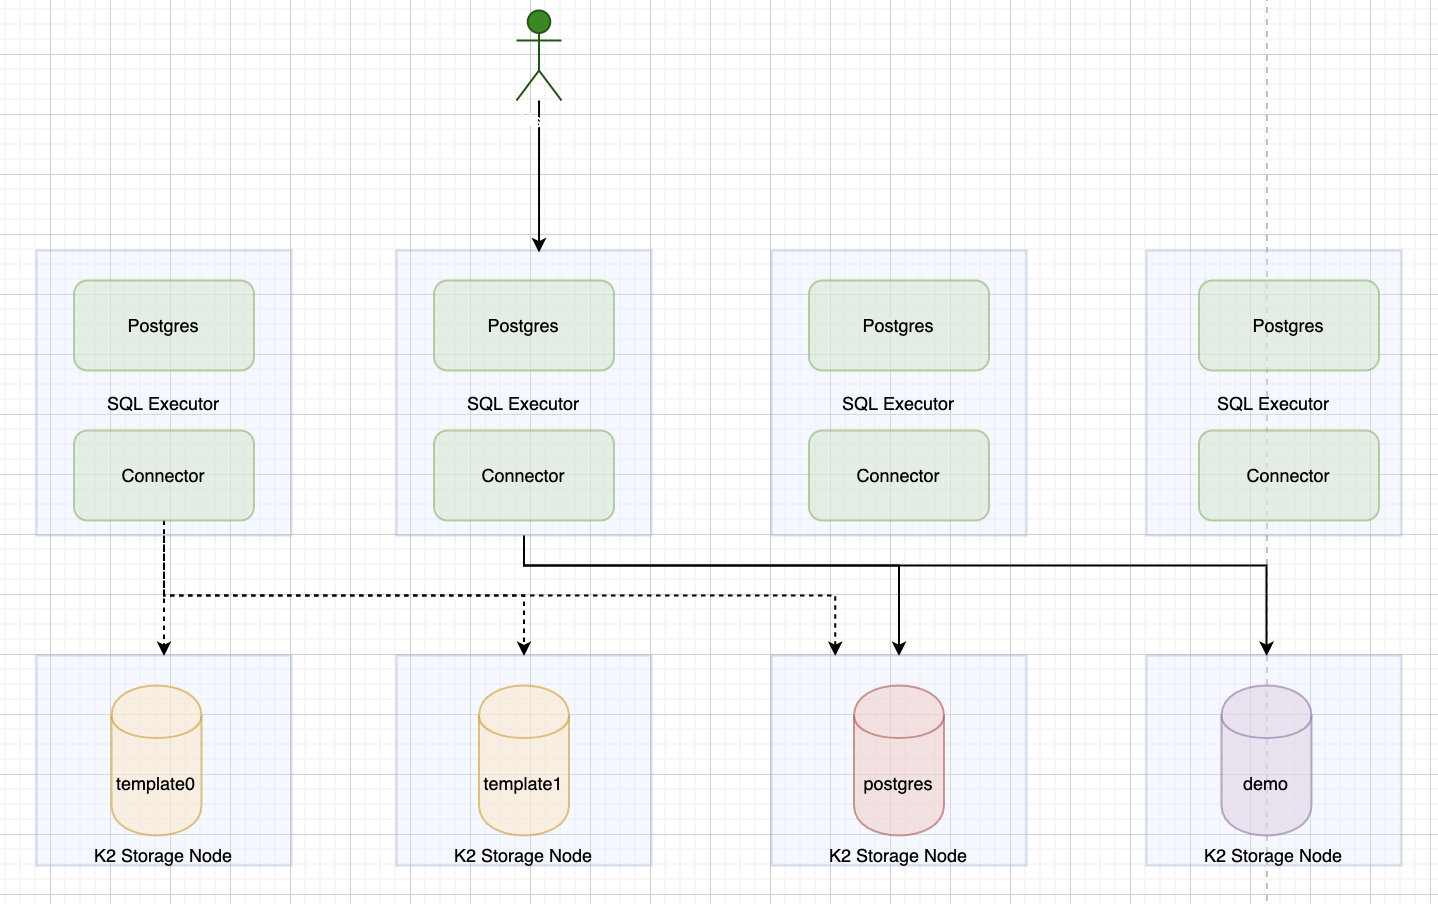
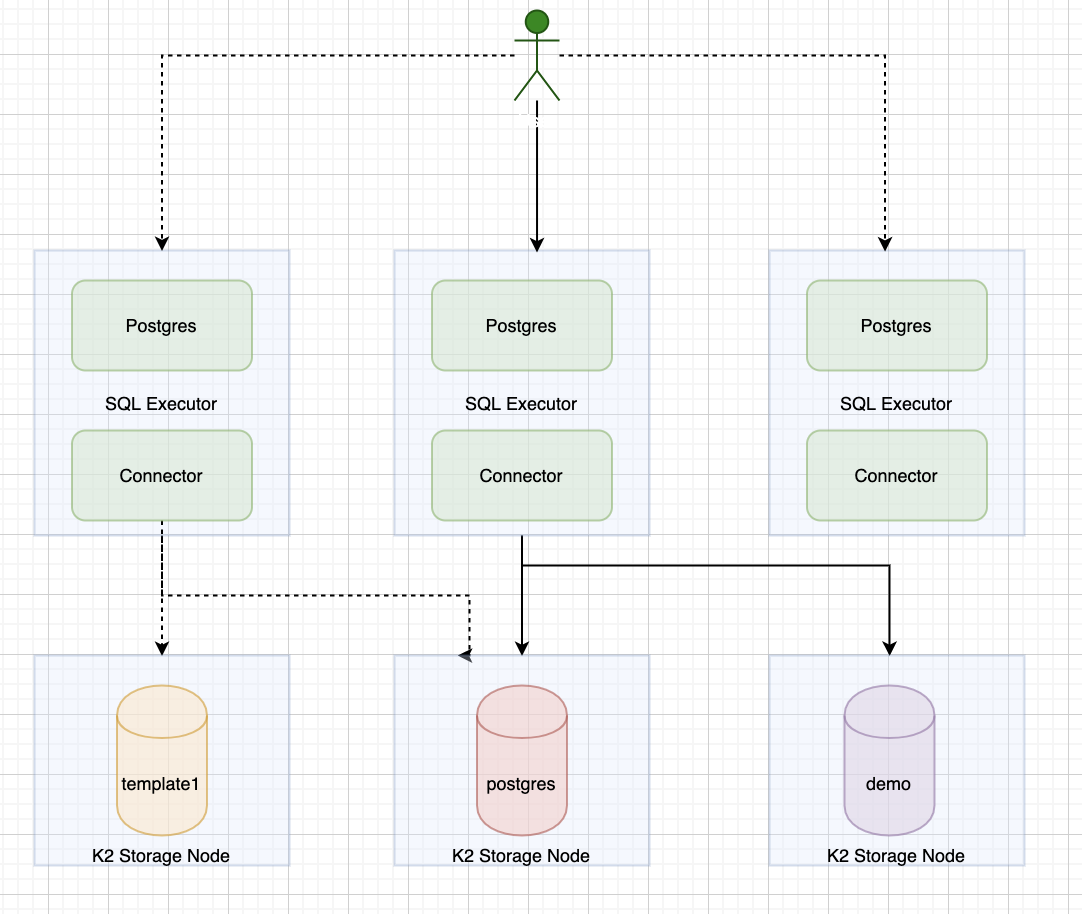
remove template0 database from the system

diff --git a/docs/K2SqlDesignProposalV1.md b/docs/K2SqlDesignProposalV1.md
@@ -14,7 +14,8 @@ into multiple segments to run on different nodes, which is useful for HTAP (Hybr
 * Data persistency and consistency is guaranteed by the K2 storage layer
 * Each table has a primary key and we need to specify one if it is not provided in schema definition. 
 * Primary keys that are used to partition tables cannot be changed once they are defined. 
-* *DDL schema updates are transactional, but schema migrations are not transactional*.
+* *DDL schema updates are transactional, but schema migrations are not*.
+* We don't support [creating a database from a template database](https://www.postgresql.org/docs/11/sql-createdatabase.html)
 
 ## Design Goals
 We like to achieve the following goals for the first version of prototype.
